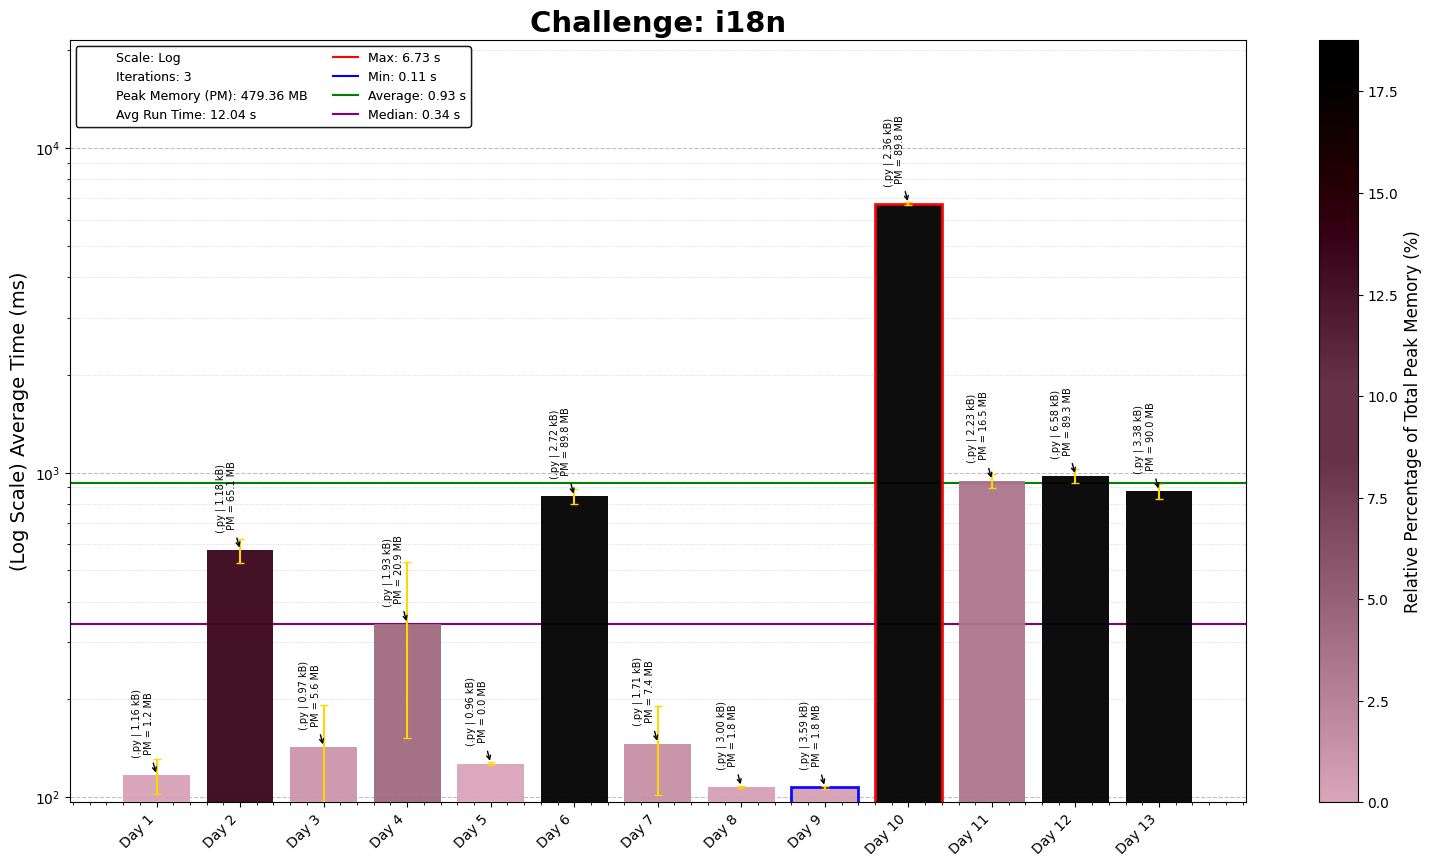
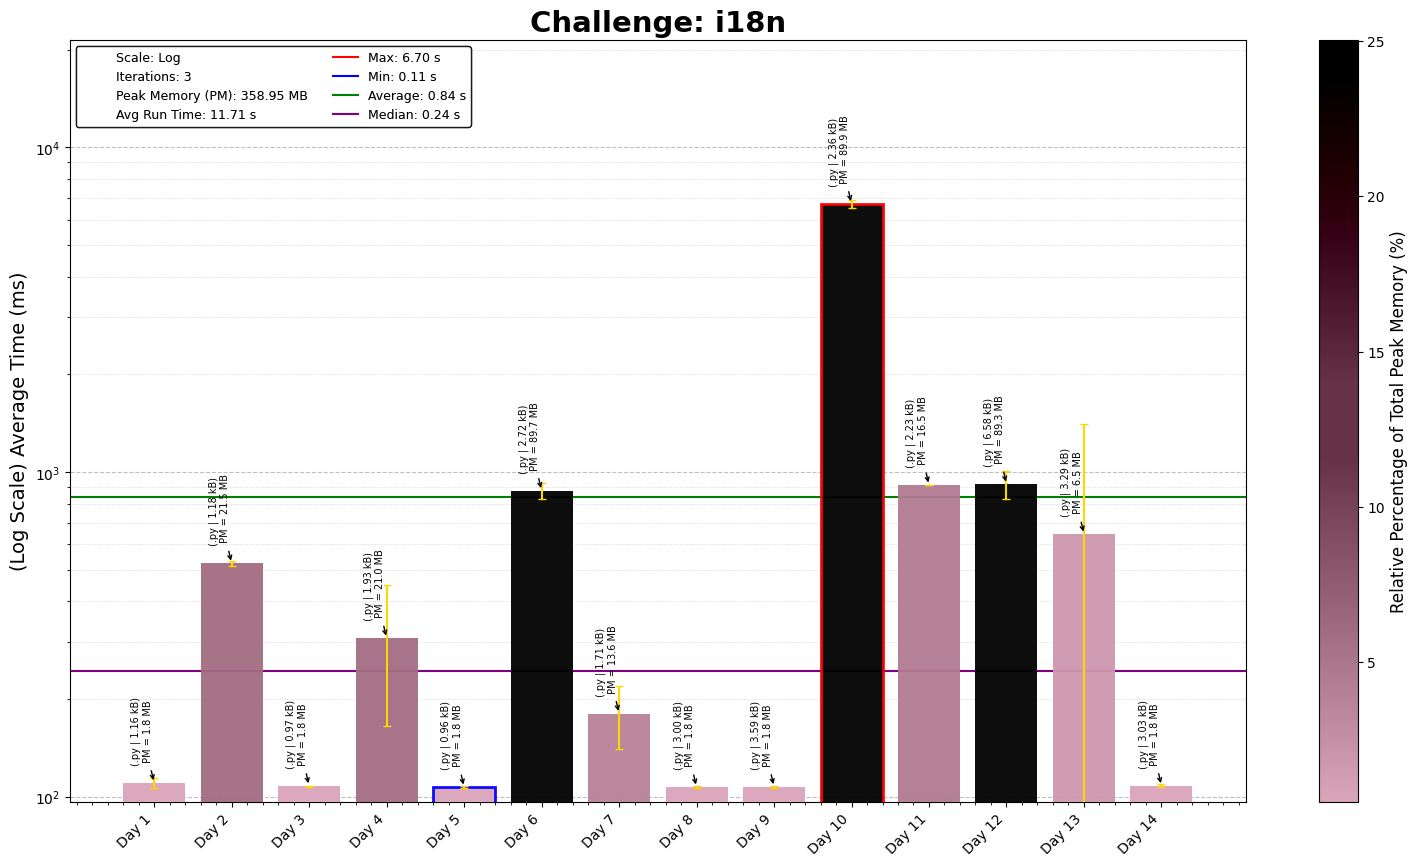
i18n Puzzles 14

diff --git a/i18n/14/i18nDay14.py b/i18n/14/i18nDay14.py
@@ -1,0 +1,73 @@
+"""i18n Puzzles - Puzzle 14
+Solution Started: Mar 27, 2025
+Puzzle Link: https://i18n-puzzles.com/puzzle/14/
+Solution by: Abbas Moosajee
+Brief: [Metrification in Japan]
+"""
+
+#!/usr/bin/env python3
+
+import os, fractions
+# Load the input data from the specified file path
+D14_file = "Day14_input.txt"
+D14_file_path = os.path.join(os.path.dirname(os.path.abspath(__file__)), D14_file)
+
+# Read and sort input data into a grid
+with open(D14_file_path, encoding = "utf-8") as file:
+    input_data = file.read().strip().split('\n')
+
+def read_japanese_number(japanese_script: str) -> int:
+    SMALL_NUMBERS = {"一":1, "二":2, "三":3, "四":4, "五":5, "六":6, "七":7, "八":8, "九":9}
+    POWERS_TEN = {"十":10, "百":100, "千":1000}
+    LARGE_UNITS = {"万":10000, "億":100000000}
+
+    total = 0
+    current_unit = 0  # Holds values within each large unit (万, 億)
+    last_number = 0   # Tracks the last small number seen
+
+    for char in japanese_script:
+        if char in SMALL_NUMBERS:
+            last_number = SMALL_NUMBERS[char]  # Store number to be multiplied later
+        elif char in POWERS_TEN:
+            multiplier = POWERS_TEN[char]
+            if last_number == 0:
+                last_number = 1  # Handle implicit "one" (e.g., 百 = 100)
+            current_unit += last_number * multiplier
+            last_number = 0  # Reset the last number since it's used
+        elif char in LARGE_UNITS:
+            multiplier = LARGE_UNITS[char]
+            total += (current_unit + last_number) * multiplier
+            current_unit = 0  # Reset the current unit after applying the large unit
+            last_number = 0  # Reset last number after large unit multiplier
+
+    total += current_unit + last_number  # Add any remaining numbers
+    # print(japanese_script, "->", total)
+    return total
+
+def measure_length(full_equation: str) -> int:
+    UNITS = {
+        "間": fractions.Fraction(6), "丈": fractions.Fraction(10), "町": fractions.Fraction(360), "里": fractions.Fraction(12960),
+        "毛": fractions.Fraction(1, 10000), "厘": fractions.Fraction(1, 1000), "分": fractions.Fraction(1, 100), 
+        "寸": fractions.Fraction(1, 10), "尺": fractions.Fraction(1)
+    }
+
+    shaku_to_m = fractions.Fraction(10, 33)  # Convert 'shaku' to meters
+
+    # Flexible split to handle spaces and different input formats
+    width_part, height_part = full_equation.split(" × ")
+
+    # Extract numbers and units
+    width_num = read_japanese_number(width_part[:-1])
+    height_num = read_japanese_number(height_part[:-1])
+    width_unit = UNITS[width_part[-1]]
+    height_unit = UNITS[height_part[-1]]
+
+    # Compute area in square meters
+    total_area = (width_num * width_unit * shaku_to_m) * (height_num * height_unit * shaku_to_m)
+
+    # print(f"{width_part} × {height_part} = {width_num} {width_part[-1]} * {height_num} {height_part[-1]} = {int(total_area)} m²")
+    return int(total_area)
+
+total_area = [measure_length(equation) for equation in input_data]
+print("Total Area:", sum(total_area))
+

diff --git a/i18n/README_i18n.md b/i18n/README_i18n.md
@@ -17,4 +17,5 @@ This repository contains coding solutions for the i18n puzzles.
 11. **Puzzle 11- Homer's Cipher**: Decoding a coded message that was fairly simple, except for the way sigma is handled still confused about that.
 12. **Puzzle 12- Sorting It Out**: Sorting it out a list of names in a phone directory
 13. **Puzzle 13- Gulliver's puzzle dictionary**: Fairly similar to Puzzle 6, except for identifying the correct encoding.
+14. **Puzzle 14- Metrification in Japan**: Quite fun learning about a different number system, however, debugging and handling of fractions took a second
 ---
